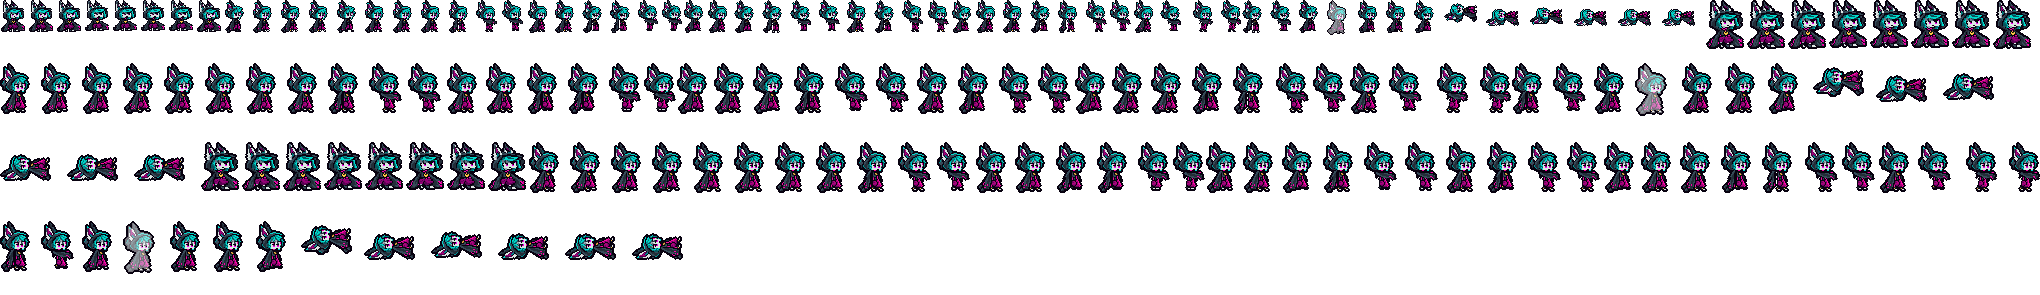
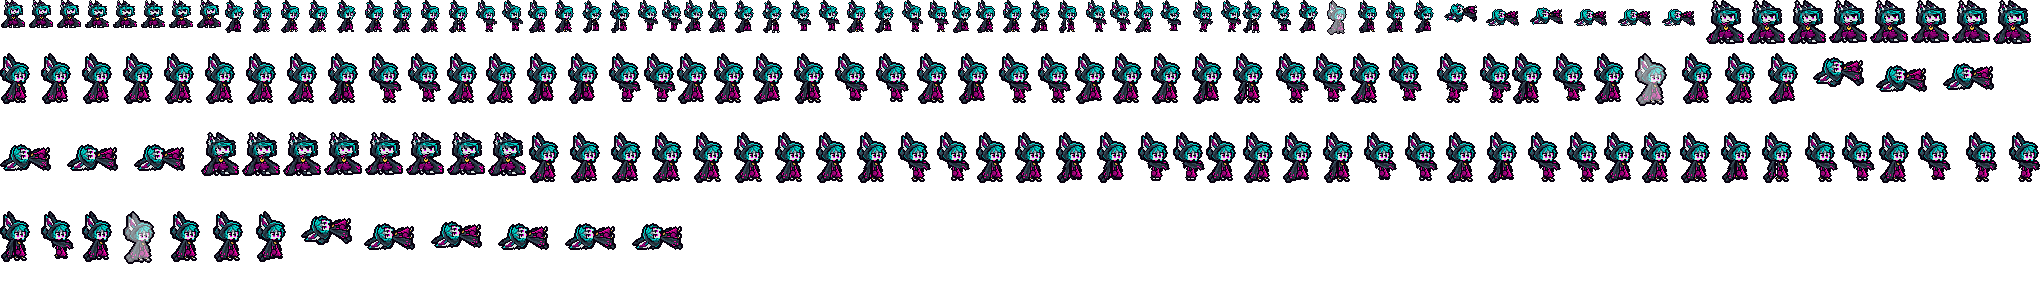
Vex's idle head cut down by whole rows and columns (5 / 7, the face kept; the user: 「待机时头有点大」)

diff --git a/tools/art/rig_vex.py b/tools/art/rig_vex.py
@@ -157,6 +157,46 @@ def tinted(D, z=12):
     return bg.convert("RGB")
 
 
+# the idle's head (the user, 2026-10-20: 「待机时头有点大」): the 3/4 design's hood is 32 squares wide against the side's 28
+# for the same height, so it is cut down by whole rows and columns, least loss first (design_vex_model.keep_axis): the
+# band from her ear tips (row 16) to her chin (row HEAD_BAND[1]), HEAD_DROP rows from the hood and its ears (the face's
+# rows kept) and HEAD_DROP_COLS columns either side of the face (its columns kept); the band sits back on her shoulders
+# with the face's first column where it was, and the outline is closed round the joint
+HEAD_BAND = (16, 41)
+HEAD_FACE = (range(35, 42), range(29, 43))     # rows / columns of her face in idle.png (eyes 36-38, mouth 40)
+HEAD_DROP, HEAD_DROP_COLS = 5, 7          # 6 rows / 9 columns cut into the ears
+
+
+def small_head(d):
+    """idle.png's own squares with the head band cut down (her squares only; the Shadow's left out)."""
+    import design_vex_model as DM
+    import strips
+    import pixel_down as PD
+    her, _ = split(d)
+    src = d.copy()
+    src[~her] = 0
+    r0, r1 = HEAD_BAND
+    fr, fc = HEAD_FACE
+    band = src[r0:r1 + 1]
+    rows = DM.keep_axis([band[y] for y in range(band.shape[0])], band.shape[0] - HEAD_DROP,
+                        range(fr.start - r0, min(fr.stop, r1 + 1) - r0))
+    sub = band[rows]
+    cols = DM.keep_axis([sub[:, x] for x in range(sub.shape[1])], sub.shape[1] - HEAD_DROP_COLS, fc)
+    head = sub[:, cols]
+    out = src.copy()
+    out[:r1 + 1] = 0
+    left = fc.start - cols.index(fc.start)
+    top = r1 + 1 - head.shape[0]
+    m = head[..., 3] > 0
+    view = out[top:r1 + 1, left:left + head.shape[1]]
+    view[m] = head[m]
+    keep = np.zeros(out.shape[:2], bool)
+    keep[fr.start:fr.stop, fc.start:fc.stop] = True
+    pad_ = np.pad(out, ((1, 1), (1, 1), (0, 0)))
+    pad_, _, _ = strips.complete_outline(pad_, color=PD.edge_colour(d), feet=out.shape[0], keep=np.pad(keep, 1))
+    return pad_[1:-1, 1:-1]
+
+
 class Form:
     """The designs' layers; pose() / front() -> canvas."""
 
@@ -167,7 +207,7 @@ class Form:
         self.L["shadow"] = pad(D.shadow_full)
         idle = load("idle.png")
         her, sh = split(idle)
-        self.idle_her = self.placed(idle, her)
+        self.idle_her = self.placed(small_head(idle), None, idle)
         self.idle_shadow = self.placed(shadow_layer(idle, sh, her), None, idle)
 
     def placed(self, d, mask=None, ref=None):
